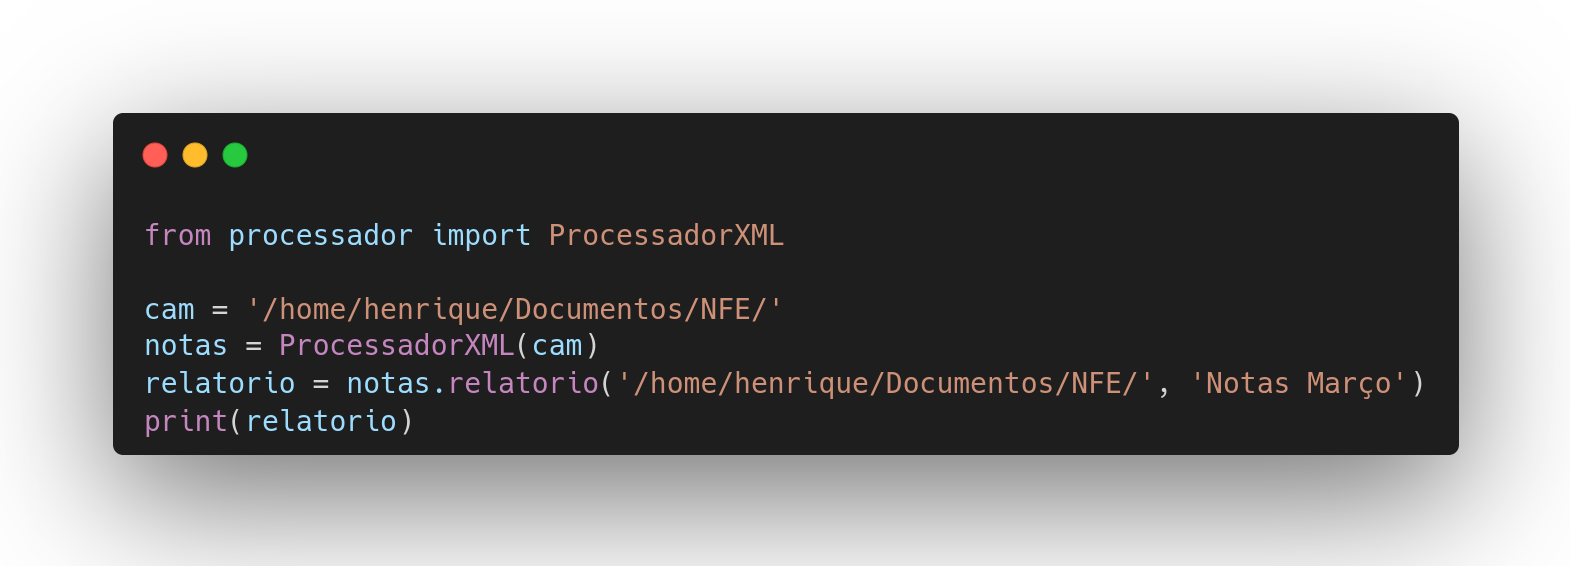
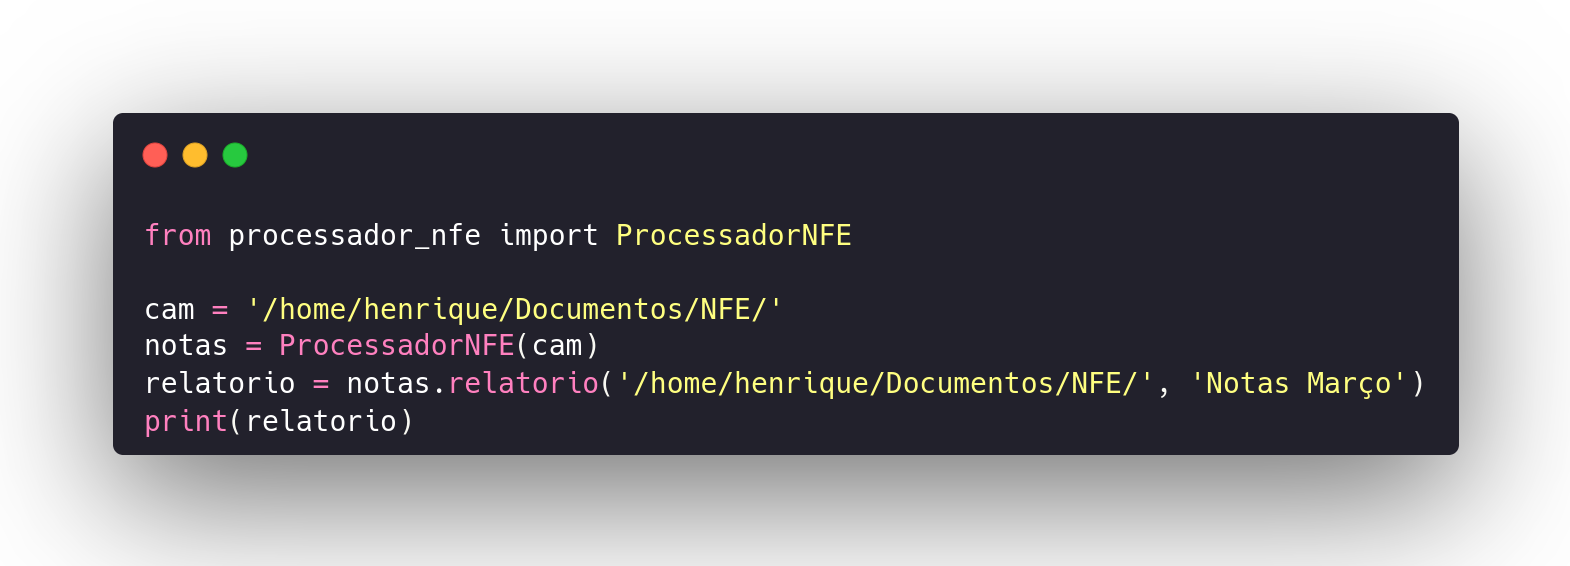
Ajustes para o PyPi

diff --git a/tests/test_processador.py b/tests/test_processador.py
@@ -1,6 +1,6 @@
 import pytest
 
-from processador import ProcessadorXML
+from processador import ProcessadorNFE
 
 
 class TestClass:
@@ -13,7 +13,7 @@ class TestClass:
         .xml e representava um Nota Fiscal Eletrônica (NFE).
         """
         cam = '/home/henrique/Documentos/NFE/'
-        notas = ProcessadorXML(cam)
+        notas = ProcessadorNFE(cam)
         arquivos = notas.buscar_nfes(cam)
 
         esperado = 78
@@ -30,7 +30,7 @@ class TestClass:
         """
 
         cam = '/home/henrique/Documentos/NFE/'
-        notas = ProcessadorXML(cam)
+        notas = ProcessadorNFE(cam)
         arquivos = notas.buscar_arquivos(cam)
 
         esperado = 265
@@ -41,14 +41,14 @@ class TestClass:
     def test_valida_arquivo_tipo_xml(self):
         with pytest.raises(Exception):
             cam = '/home/henrique/Documentos/NFE/Teste4.xlsx'
-            notas = ProcessadorXML(cam)
+            notas = ProcessadorNFE(cam)
             resultado = notas.valida_xml(cam)
 
             assert resultado
 
     def test_relatorio_gerado_com_sucesso(self):
         cam = '/home/henrique/Documentos/NFE/'
-        notas = ProcessadorXML(cam)
+        notas = ProcessadorNFE(cam)
         relatorio = notas.relatorio('/home/henrique/Documentos/NFE/', 'Notas Março')
 
         esperado = 'Relatório Gerado com Sucesso'

diff --git a/main.py b/main.py
@@ -1,7 +1,7 @@
-from processador import ProcessadorXML
+from processador import ProcessadorNFE
 
 cam = '/home/henrique/Documentos/NFE/'
-notas = ProcessadorXML(cam)
+notas = ProcessadorNFE(cam)
 relatorio = notas.relatorio('/home/henrique/Documentos/NFE/', 'Notas Março')
 print(relatorio)
 

diff --git a/processador.py b/processador.py
@@ -5,7 +5,7 @@ import xml.etree.ElementTree as ET
 import pandas as pd
 
 
-class ProcessadorXML:
+class ProcessadorNFE:
 
     def __init__(self, caminho):
         self._caminho = caminho

diff --git a/README.md b/README.md
@@ -15,6 +15,24 @@ arquivo do tipo .xlsx (Excel).
 
 ![RELATORIO](Exemplo.png)
 
+### Instalação
+
+- Linux/Mac:
+
+```python3 -m venv venv```
+
+```source venv/bin/activate```
+
+```pip install Processador-XML-NFE```
+
+- Windows:
+
+```virtaulenv venv```
+
+```venv/Scripts/Activate```
+
+```pip install Processador-XML-NFE```
+
 ### Exemplo de uso
 
 ![CODE](uso.png)
